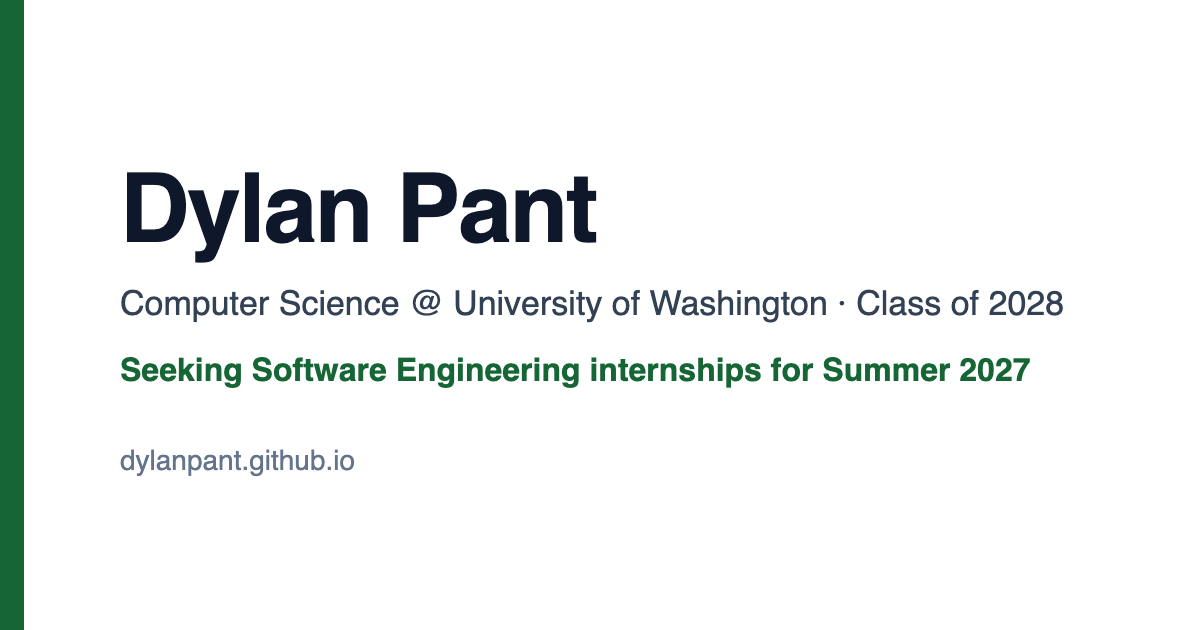
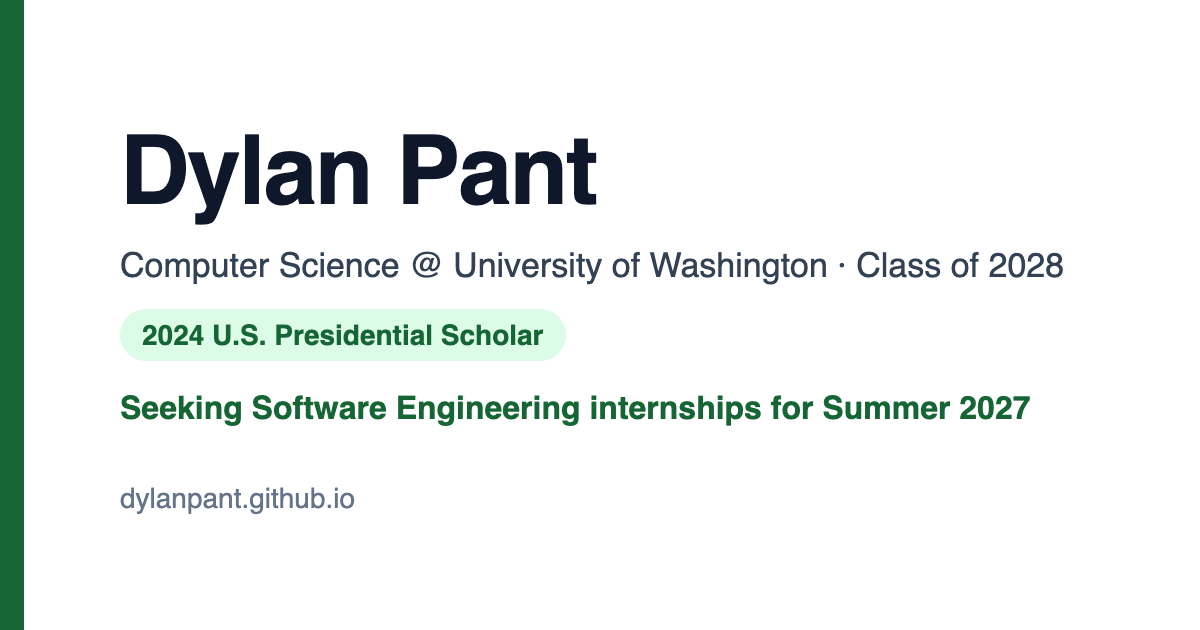
Highlight the 2024 U.S. Presidential Scholar honor
Add a hero badge linking to a new Honors section after Experience, a nav
link, and the honor in the page description and social preview image.

Changed region(s): [[0.0925, 0.2111, 0.8942, 0.6937], [0.0925, 0.6937, 0.3083, 0.8143]]

diff --git a/app/components/HonorsSection.jsx b/app/components/HonorsSection.jsx
@@ -1,0 +1,36 @@
+import { Award } from "lucide-react"
+import { Section } from "./Section"
+
+const HONORS = [
+    {
+        id: "presidential-scholar",
+        title: "U.S. Presidential Scholar",
+        year: "2024",
+        issuer: "U.S. Department of Education · White House Commission on Presidential Scholars",
+        description:
+            "Named one of the nation's most distinguished graduating high school seniors, recognized for academics, leadership, and community service.",
+    },
+]
+
+export const HonorsSection = () => (
+    <Section id="honors" title="Honors" className="bg-muted">
+        <ul className="space-y-4">
+            {HONORS.map((honor) => (
+                <li
+                    key={honor.id}
+                    className="flex gap-4 rounded-lg border border-border border-l-4 border-l-primary bg-card p-6"
+                >
+                    <Award className="mt-1 h-6 w-6 shrink-0 text-primary" aria-hidden="true" />
+                    <div>
+                        <div className="flex flex-wrap items-baseline justify-between gap-x-4 gap-y-1">
+                            <h3 className="text-lg font-semibold">{honor.title}</h3>
+                            <span className="text-sm text-muted-foreground">{honor.year}</span>
+                        </div>
+                        <p className="mt-0.5 text-sm text-muted-foreground">{honor.issuer}</p>
+                        <p className="mt-3 max-w-2xl leading-relaxed text-foreground/90">{honor.description}</p>
+                    </div>
+                </li>
+            ))}
+        </ul>
+    </Section>
+)

diff --git a/app/components/AboutSection.jsx b/app/components/AboutSection.jsx
@@ -1,8 +1,7 @@
-import { Award } from "lucide-react"
 import { Section } from "./Section"
 
 export const AboutSection = () => (
-    <Section id="about" title="About" className="bg-muted">
+    <Section id="about" title="About">
         <div className="max-w-2xl space-y-4 leading-relaxed text-foreground/90">
             <p>
                 I&apos;m a Dean&apos;s Scholar at UW studying Computer Science, with a background that runs from the
@@ -13,17 +12,6 @@ export const AboutSection = () => (
                 That conviction shapes the work I take on: AI agents that cut through complexity, backend systems built
                 to last, and mentorship that brings more people into computing.
             </p>
-        </div>
-
-        <div className="mt-8 flex max-w-2xl gap-4 rounded-lg border border-border bg-card p-5">
-            <Award className="mt-0.5 h-5 w-5 shrink-0 text-primary" aria-hidden="true" />
-            <div>
-                <h3 className="font-semibold">2024 U.S. Presidential Scholar</h3>
-                <p className="mt-1 text-sm leading-relaxed text-muted-foreground">
-                    Named by the U.S. Department of Education as one of the nation&apos;s most distinguished graduating
-                    high school seniors, recognized for academics, leadership, and community service.
-                </p>
-            </div>
         </div>
     </Section>
 )

diff --git a/app/components/HeroSection.jsx b/app/components/HeroSection.jsx
@@ -1,4 +1,4 @@
-import { FileText, Mail } from "lucide-react"
+import { Award, FileText, Mail } from "lucide-react"
 import { FaGithub, FaLinkedin } from "react-icons/fa"
 import { EMAIL, GITHUB_URL, LINKEDIN_URL, RESUME_AVAILABLE, RESUME_URL } from "../lib/site"
 import { buttonStyles } from "./Section"
@@ -12,6 +12,12 @@ export const HeroSection = () => (
             <p className="mt-3 text-lg font-medium text-foreground md:text-xl">
                 Computer Science @ University of Washington · Class of 2028
             </p>
+            <a
+                href="#honors"
+                className="mt-4 inline-flex items-center gap-2 rounded-full border border-primary/30 bg-primary/10 px-3.5 py-1.5 text-sm font-semibold text-primary hover:bg-primary/15 transition-colors"
+            >
+                <Award size={16} aria-hidden="true" /> 2024 U.S. Presidential Scholar
+            </a>
             <p className="mt-2 text-base font-semibold text-primary md:text-lg">
                 Seeking Software Engineering internships for Summer 2027
             </p>

diff --git a/app/page.jsx b/app/page.jsx
@@ -1,6 +1,7 @@
 import { Navbar } from "./components/Navbar"
 import { HeroSection } from "./components/HeroSection"
 import { ExperienceSection } from "./components/ExperienceSection"
+import { HonorsSection } from "./components/HonorsSection"
 import { ProjectsSection } from "./components/ProjectsSection"
 import { SkillsSection } from "./components/SkillsSection"
 import { AboutSection } from "./components/AboutSection"
@@ -20,6 +21,7 @@ export default function Home() {
             <main id="main" tabIndex={-1} className="focus:outline-none">
                 <HeroSection />
                 <ExperienceSection />
+                <HonorsSection />
                 <ProjectsSection />
                 <SkillsSection />
                 <AboutSection />

diff --git a/app/layout.jsx b/app/layout.jsx
@@ -17,7 +17,7 @@ const spaceGrotesk = Space_Grotesk({
 
 const title = "Dylan Pant | Software Engineer"
 const description =
-    "Dylan Pant, Computer Science at the University of Washington (Class of 2028). Seeking Software Engineering internships for Summer 2027. Experience at Microsoft and UW School of Medicine."
+    "Dylan Pant, Computer Science at the University of Washington (Class of 2028). 2024 U.S. Presidential Scholar. Seeking Software Engineering internships for Summer 2027. Experience at Microsoft and UW School of Medicine."
 const ogImage = { url: asset("/og.png"), width: 1200, height: 630, alt: "Dylan Pant, Software Engineer" }
 
 export const metadata = {

diff --git a/app/components/ContactSection.jsx b/app/components/ContactSection.jsx
@@ -4,7 +4,7 @@ import { EMAIL, GITHUB_URL, LINKEDIN_URL } from "../lib/site"
 import { Section, buttonStyles } from "./Section"
 
 export const ContactSection = () => (
-    <Section id="contact" title="Contact">
+    <Section id="contact" title="Contact" className="bg-muted">
         <p className="max-w-2xl text-muted-foreground">
             I&apos;m always interested in new projects and career opportunities, especially Software Engineering
             internships for Summer 2027. The fastest way to reach me is email.

diff --git a/app/components/ProjectsSection.jsx b/app/components/ProjectsSection.jsx
@@ -47,7 +47,7 @@ const linkStyle =
     "inline-flex items-center gap-1.5 text-sm font-semibold text-primary underline-offset-4 hover:underline"
 
 export const ProjectsSection = () => (
-    <Section id="projects" title="Projects" className="bg-muted">
+    <Section id="projects" title="Projects">
         <div className="grid gap-6 md:grid-cols-2">
             {projects.map((project) => (
                 <article key={project.id} className="flex flex-col rounded-lg border border-border bg-card p-6">

diff --git a/app/components/SkillsSection.jsx b/app/components/SkillsSection.jsx
@@ -7,7 +7,7 @@ const skillGroups = [
 ]
 
 export const SkillsSection = () => (
-    <Section id="skills" title="Skills">
+    <Section id="skills" title="Skills" className="bg-muted">
         <dl className="space-y-5">
             {skillGroups.map((group) => (
                 <div key={group.label} className="grid gap-2 sm:grid-cols-[10rem_1fr] sm:gap-4">

diff --git a/app/lib/site.js b/app/lib/site.js
@@ -17,6 +17,7 @@ export const LINKEDIN_URL = "https://linkedin.com/in/dylanpant"
 
 export const NAV_ITEMS = [
     { name: "Experience", href: "#experience" },
+    { name: "Honors", href: "#honors" },
     { name: "Projects", href: "#projects" },
     { name: "Skills", href: "#skills" },
     { name: "About", href: "#about" },
